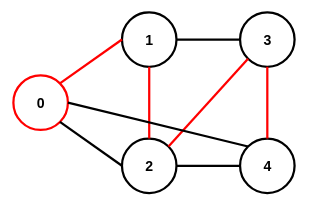
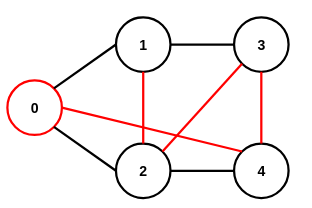
Update: edge pool DFS/BFS

diff --git a/chapter04.md b/chapter04.md
@@ -150,90 +150,84 @@ $\because\mathbf{A}\mathbf{A}_{i,j}=\displaystyle\sum_{m=0}^{n-1}\mathbf{A}_{i,m
 #include<stdio.h>
 #include<stdlib.h>
 
-#define NOTVIST 0
-#define PROCESS 1
-#define ALLDONE 2
+#define NO 0
+#define IN 1
+#define OK 2
 
 struct node{
     int v;
-    struct node* next;
+    int next;
 };
 struct graph{
     int n;
-    struct node** adjs;
-    int*          vist;
+    int e;
+    int p;
+    int*         adjs;
+    int*         vist;
+    struct node* pool;
 };
 
 void    dfs(struct graph* g,int s);
-void   init(struct graph* g,int n);
+void   init(struct graph* g,int n,int e);
 void  clean(struct graph* g);
 void insert(struct graph* g,int u,int v);
 
 int main(void){
     int j;
     int n; int e; scanf("%d %d",&n,&e);
-    int s; scanf("%d",&s);
+    int s;        scanf("%d",&s);
     int u; int v;
     struct graph g;
-    init(&g,n);
+    init(&g,n,2*e); // 2*e: 무향그래프
     for(j=0;j<e;j++){
         scanf("%d %d",&u,&v);
         insert(&g,u,v);
         insert(&g,v,u);
-    };
+    }
     dfs(&g,s);
     clean(&g);
 }
 
 void    dfs(struct graph* g,int s){
-    struct node* d;
+    int d;
     printf("%d ",s);
     d=g->adjs[s];
-    g->vist[s]=PROCESS;
-    while((d=d->next)!=NULL){if(g->vist[d->v]==NOTVIST){dfs(g,d->v);}}
-    g->vist[s]=ALLDONE;
+    g->vist[s]=IN;
+    while(d!=-1){
+        if(g->vist[g->pool[d].v]==NO){dfs(g,g->pool[d].v);}
+        d=g->pool[d].next;
+    }
+    g->vist[s]=OK;
 }
-void   init(struct graph* g,int n){
+void   init(struct graph* g,int n,int e){
     int j;
     g->n=n;
-    g->adjs=(struct node**)malloc(sizeof(struct node*)*n);
-    g->vist=         (int*)malloc(sizeof(int)         *n);
+    g->e=e;
+    g->p=0;
+    g->adjs=(int*)malloc(sizeof(int)*n);
+    g->vist=(int*)malloc(sizeof(int)*n);
+    g->pool=(struct node*)malloc(sizeof(struct node)*e);
     for(j=0;j<n;j++){
-        g->adjs[j]=(struct node*)malloc(sizeof(struct node));
-        g->adjs[j]->v=j;
-        g->adjs[j]->next=NULL;
-        g->vist[j]=NOTVIST;
+        g->adjs[j]=-1;
+        g->vist[j]=NO;
     }
 }
 void  clean(struct graph* g){
-    int j;
-    struct node* d;
-    struct node* f; // free
-    for(j=0;j<g->n;j++){
-        d=g->adjs[j];
-        while(d!=NULL){
-            f=d;
-            d=d->next;
-            free(f);
-        }
-    }
     free(g->adjs);
+    free(g->vist);
+    free(g->pool);
 }
-void insert(struct graph* g,int u,int v){ // DFS 검증: 사전순 이웃 노드
-    struct node* d;
-    struct node* n=(struct node*)malloc(sizeof(struct node)); // new
-    d=g->adjs[u];
-    while((d->next!=NULL)&&(v>(d->next->v))){d=d->next;}
-    n->v=v;
-    n->next=d->next;
-    d->next=n;
+void insert(struct graph* g,int u,int v){
+    g->pool[g->p].v=v;
+    g->pool[g->p].next=g->adjs[u];
+    g->adjs[u]=g->p++;
 }
 ```
 ```
 $ ./test
 5 8 # number of node, edge
 0   # start
-0 1 
+0 1
 0 2
 0 4
 1 2
@@ -241,24 +235,25 @@ $ ./test
 2 3
 2 4
 3 4
-dfs: 0 1 2 3 4 
+0 4 3 2 1
 ```
 #### DFS: 스택
 ```C
 void    dfs(struct graph* g,int s){
-    struct node* d;
+    int  d;
     int* a=(int*)malloc(sizeof(int)*(g->n)); // stack
     int  t=0; // top of stack
     a[t++]=s; // push
-    g->vist[s]=ALLDONE;
+    g->vist[s]=OK;
     while(t>0){
-        d=g->adjs[a[--t]]; // pop
-        printf("%d ",d->v);
-        while((d=d->next)!=NULL){
-            if(g->vist[d->v]==NOTVIST){
-                g->vist[d->v]=ALLDONE;
-                a[t++]=d->v; // push
+        d=a[--t]; printf("%d ",d); // pop
+        d=g->adjs[d];
+        while(d!=-1){
+            if(g->vist[g->pool[d].v]==NO){
+                g->vist[g->pool[d].v]=OK;
+                a[t++]=g->pool[d].v; // push
             }
+            d=g->pool[d].next;
         }
     }
     free(a);
@@ -276,7 +271,7 @@ $ ./test
 2 3
 2 4
 3 4
-dfs: 0 4 3 2 1 # 사전순 탐색 없음(인접리스트 역순)
+0 1 3 2 4
 ```
 #### BFS
 <img src="./static/PS612-BFS.png">
@@ -284,20 +279,21 @@ dfs: 0 4 3 2 1 # 사전순 탐색 없음(인접리스트 역순)
 #### BFS: 큐
 ```C
 void    bfs(struct graph* g,int s){
-    struct node* d;
-    int* q=(int*)malloc(sizeof(int)*(g->n)); // queue
-    int f=0; // front of stack
-    int r=0; // rear  of stack
+    int  d;
+    int* q=(int*)malloc(sizeof(int)*(g->n));
+    int f=0;
+    int r=0;
     q[r++]=s; // enqueue
-    g->vist[s]=ALLDONE;
+    g->vist[s]=OK;
     while(f<r){
-        d=g->adjs[q[f++]]; // dequeue
-        printf("%d ",d->v);
-        while((d=d->next)!=NULL){
-            if(g->vist[d->v]==NOTVIST){
-                g->vist[d->v]=ALLDONE;
-                q[r++]=d->v; // enqueue
+        d=q[f++]; printf("%d ",d); // pop
+        d=g->adjs[d];
+        while(d!=-1){
+            if(g->vist[g->pool[d].v]==NO){
+                g->vist[g->pool[d].v]=OK;
+                q[r++]=g->pool[d].v; // push
             }
+            d=g->pool[d].next;
         }
     }
     free(q);
@@ -315,7 +311,7 @@ $ ./test
 2 3
 2 4
 3 4
-bfs: 0 1 2 4 3
+bfs: 0 4 2 1 3
 ```
 ### 4.1.3 격자그래프 탐색
 #### BFS
@@ -418,7 +414,7 @@ $ ./test
 |$S=\{A,C,E\}$|0|8|5|**13**|7|D: $\min(14,7+6)$|
 |$S=\{A,C,E,B\}$|0|8|5|**9**|7|C: $\min(5,8+2)$<br>D: $\min(13,8+1)$|
 |$S=\{A,C,E,B,D\}$|0|8|5|9|7|E: $\min(7,9+4)$|
-#### 데이크스트라
+#### 데이크스트라: 인접리스트, 순차탐색
 ```C
 #include<stdio.h>
 #include<stdlib.h>
@@ -554,7 +550,7 @@ expanded: 4, distance: 0 8 5 13 7
 expanded: 1, distance: 0 8 5 9 7 
 expanded: 3, distance: 0 8 5 9 7 
 ```
-#### 데이크스트라: 정적 간선 풀, 힙, 역추적
+#### 데이크스트라: 정적간선풀, 힙, 역추적
 ```C
 #include<stdio.h>
 #include<stdlib.h>
@@ -744,7 +740,7 @@ int main(void){
     for(k=0;k<g->n;k++){
         if(g->dist[j][k]==INF){printf("INF\t");}
         else                  {printf("%d\t",g->dist[j][k]);}
-    }
+    }}
     
     clean(&g);
 }
@@ -809,7 +805,7 @@ $ cat test.txt
 <img src="./static/PS622-MST.png">
 
 <!-- #### Kruskal I -->
-#### Kruskal II
+#### MST: Kruskal II
 ```C
 #include<stdio.h>
 #include<stdlib.h>
